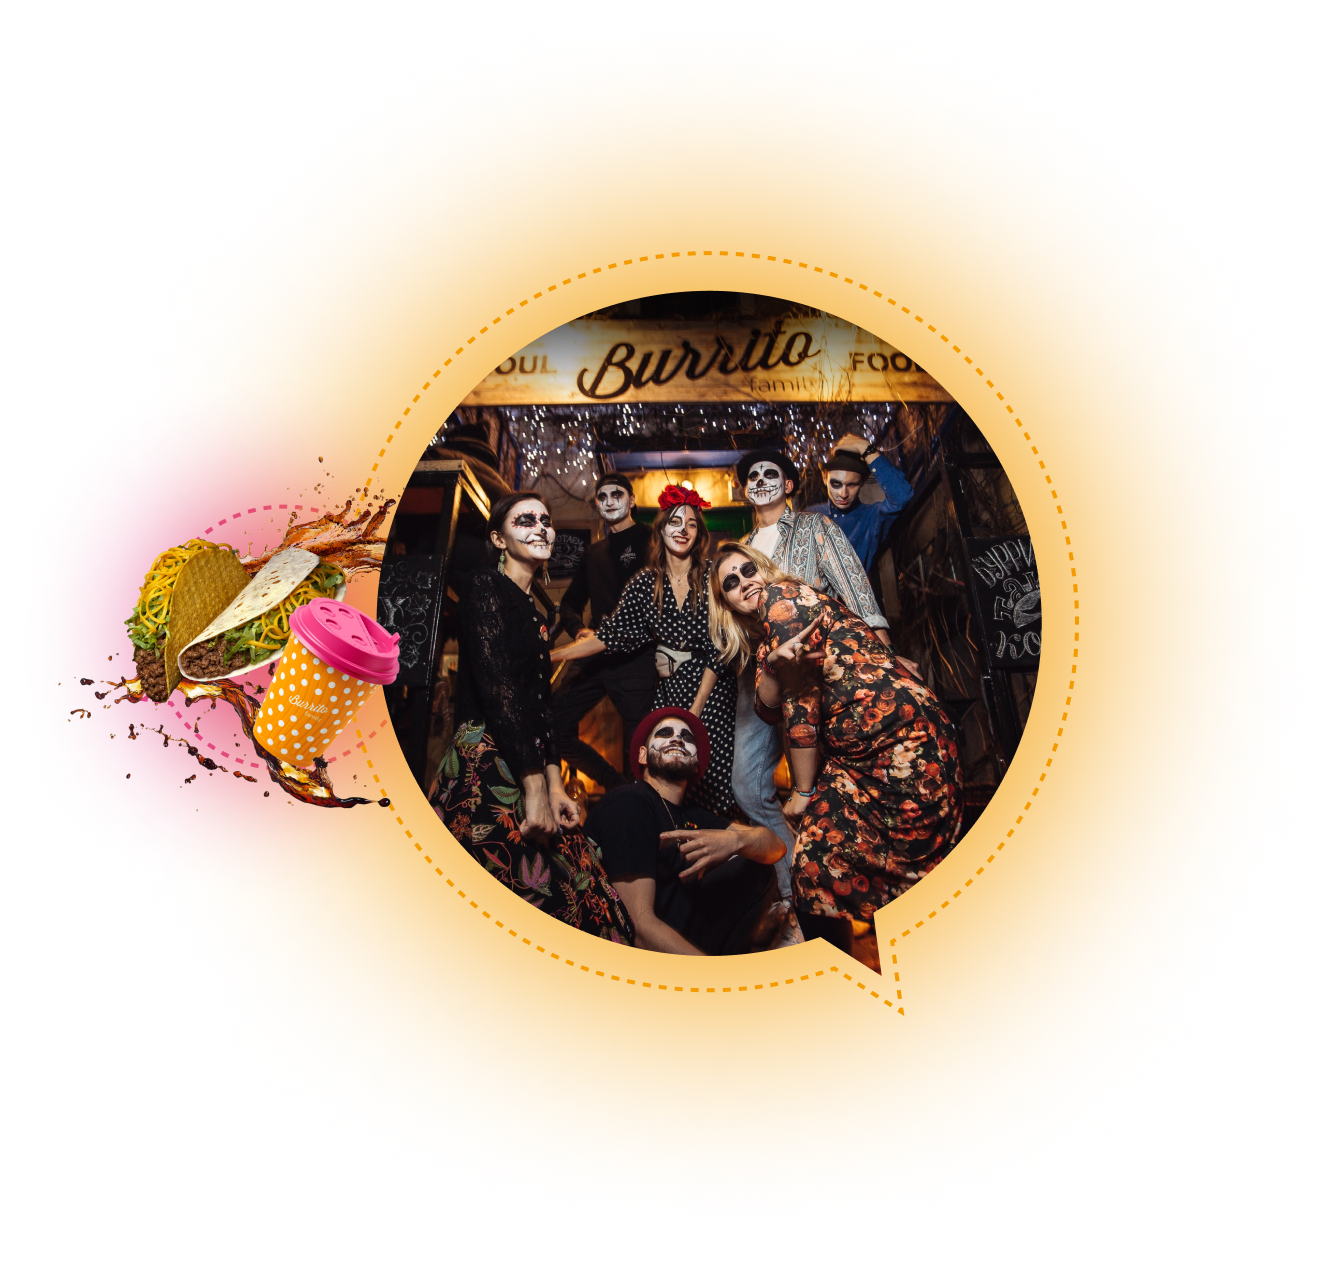
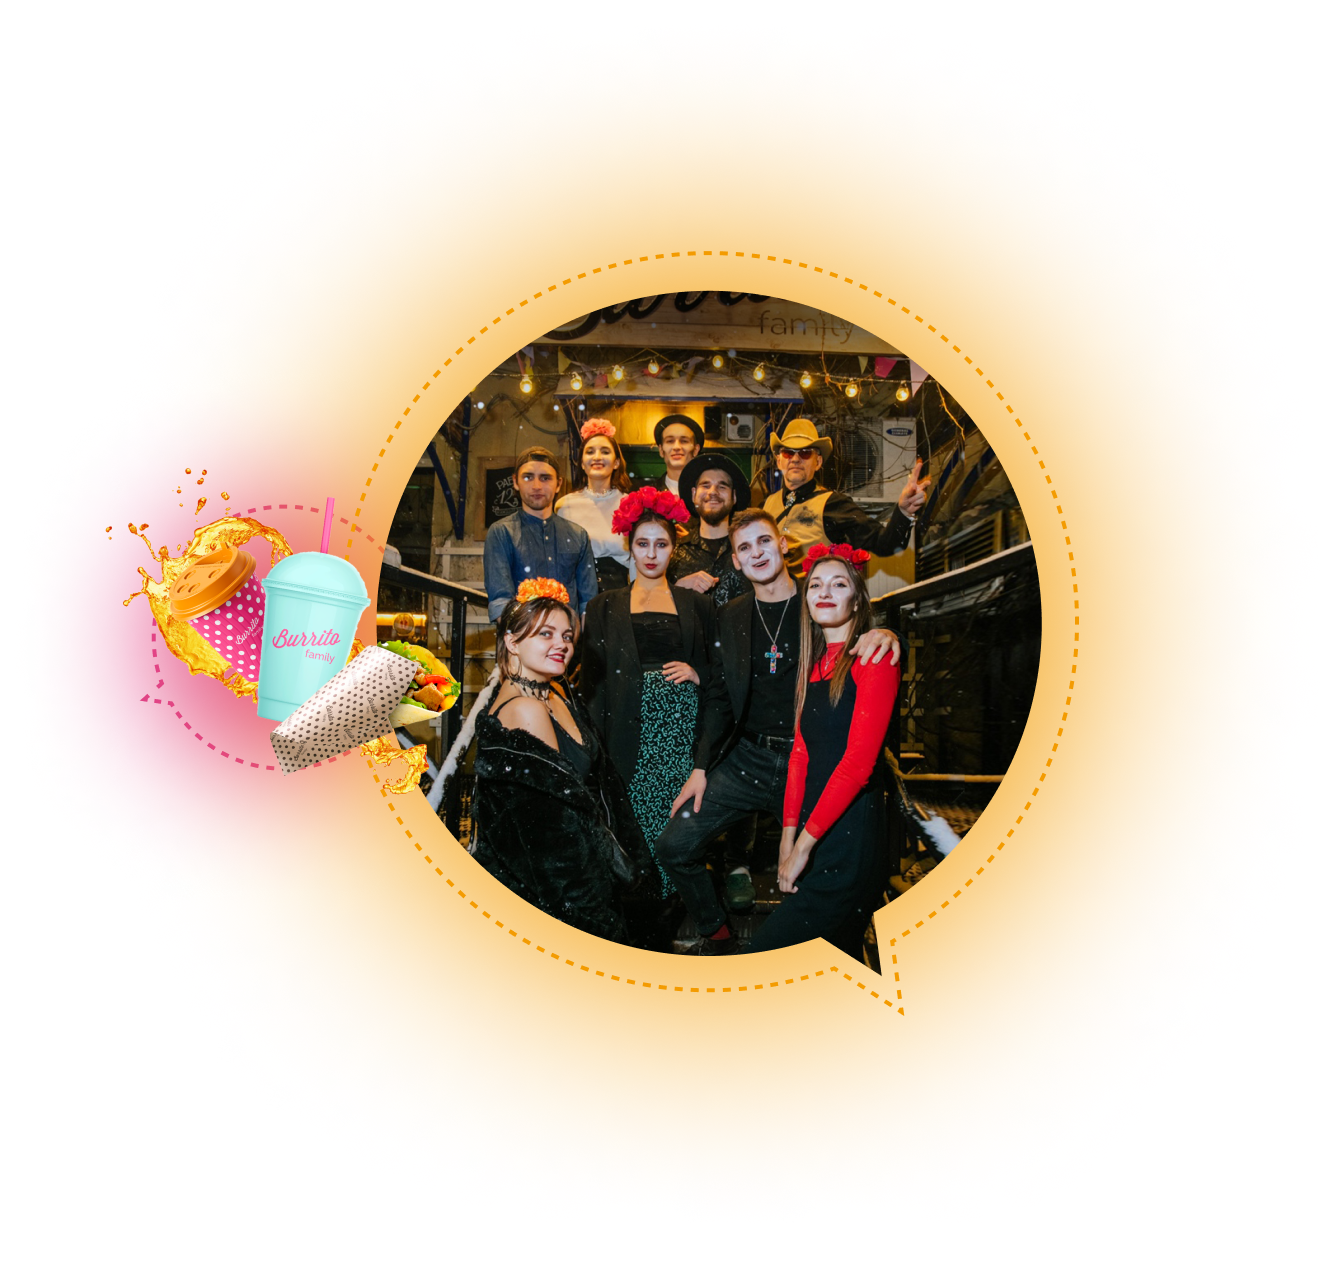
Add new image to first page slider

Changed region(s): [[0.0616, 0.2156, 0.8009, 0.7701]]

diff --git a/src/index.html b/src/index.html
@@ -91,6 +91,9 @@
               <div class="swiper-slide">
                 <img src="./img/gallery/desc/2.webp" />
               </div>
+              <div class="swiper-slide">
+                <img src="./img/gallery/desc/3.webp" />
+              </div>
             </div>
           </div>
           <form class="line-form line-form_desc">
